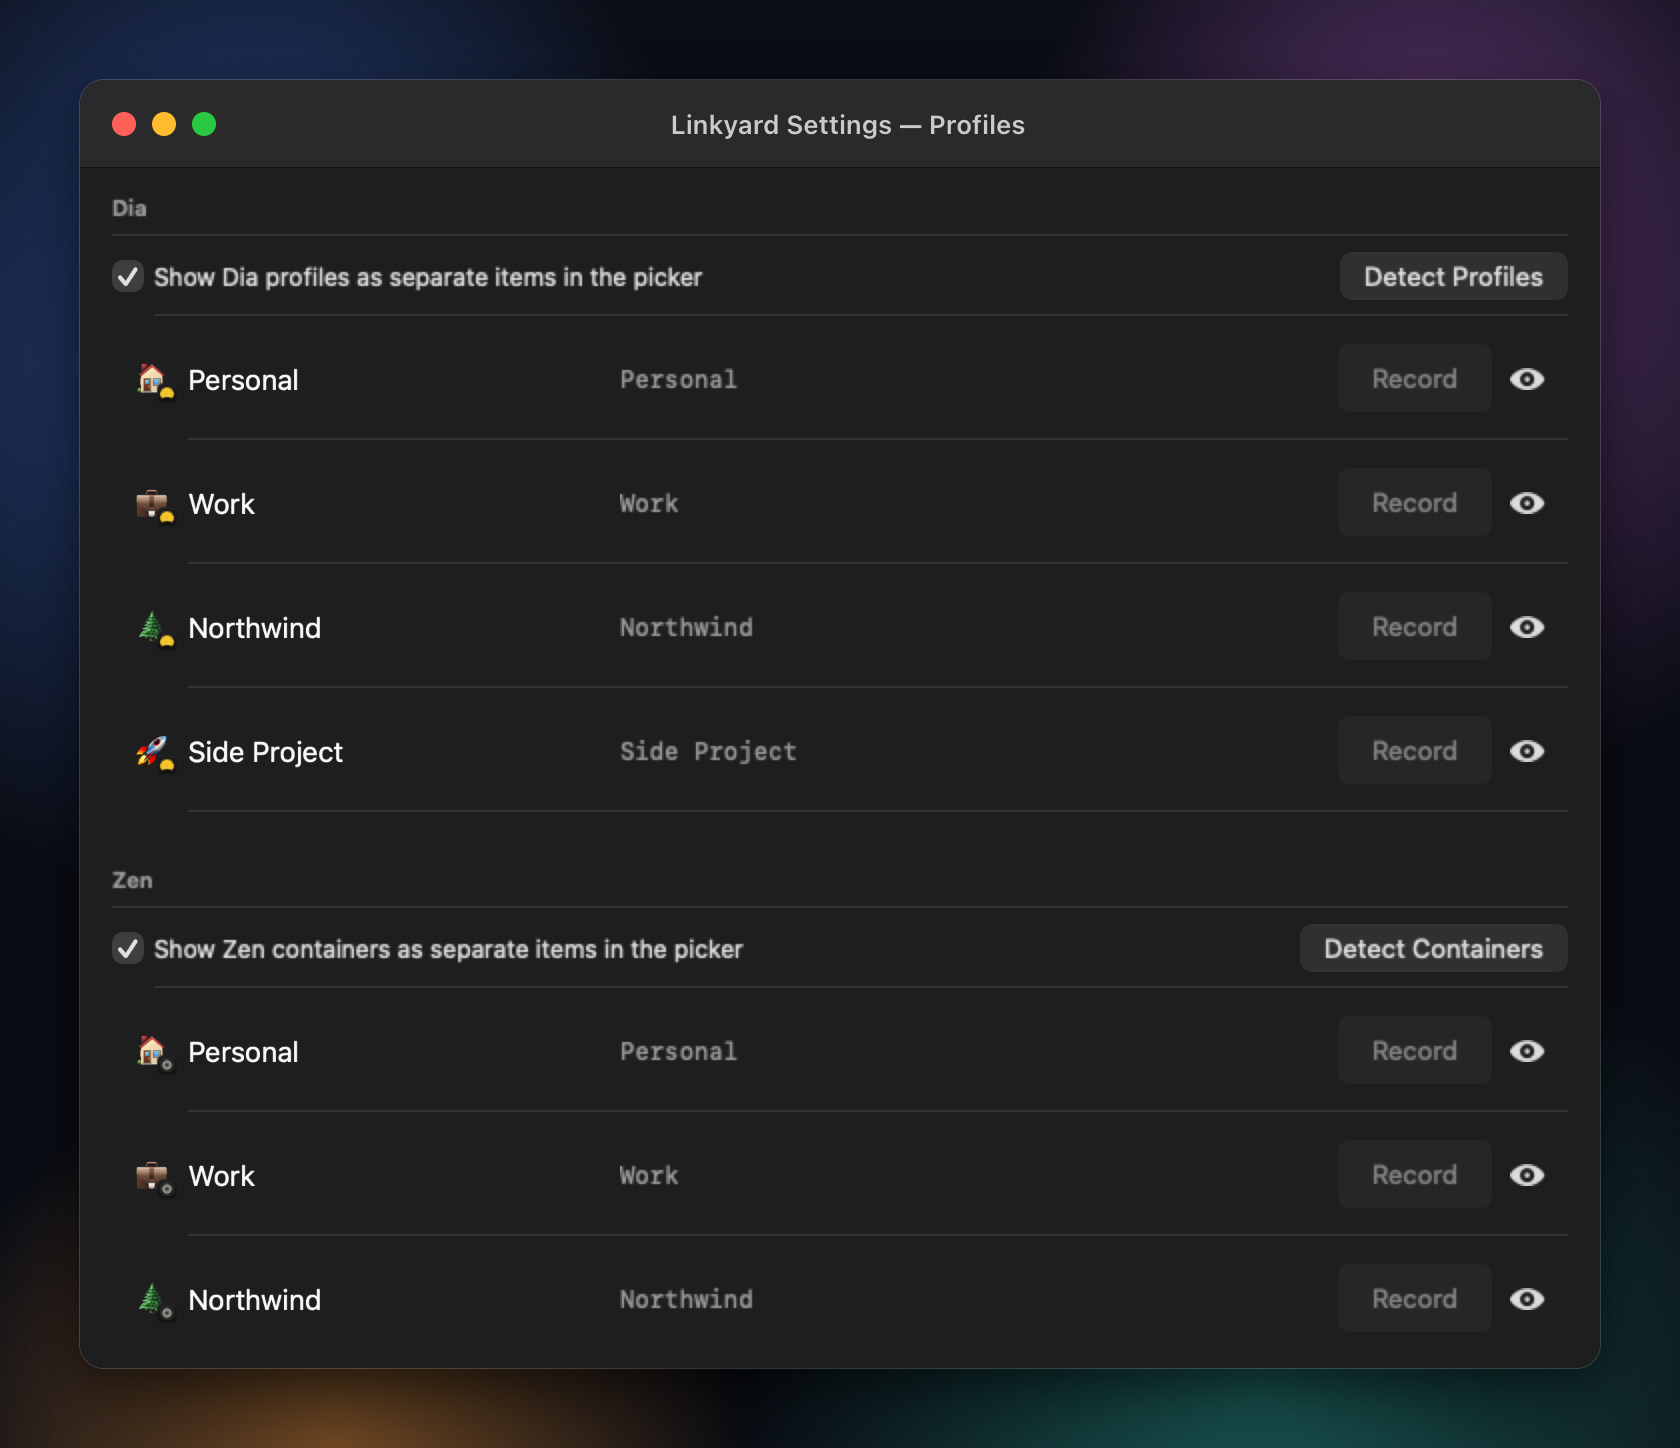
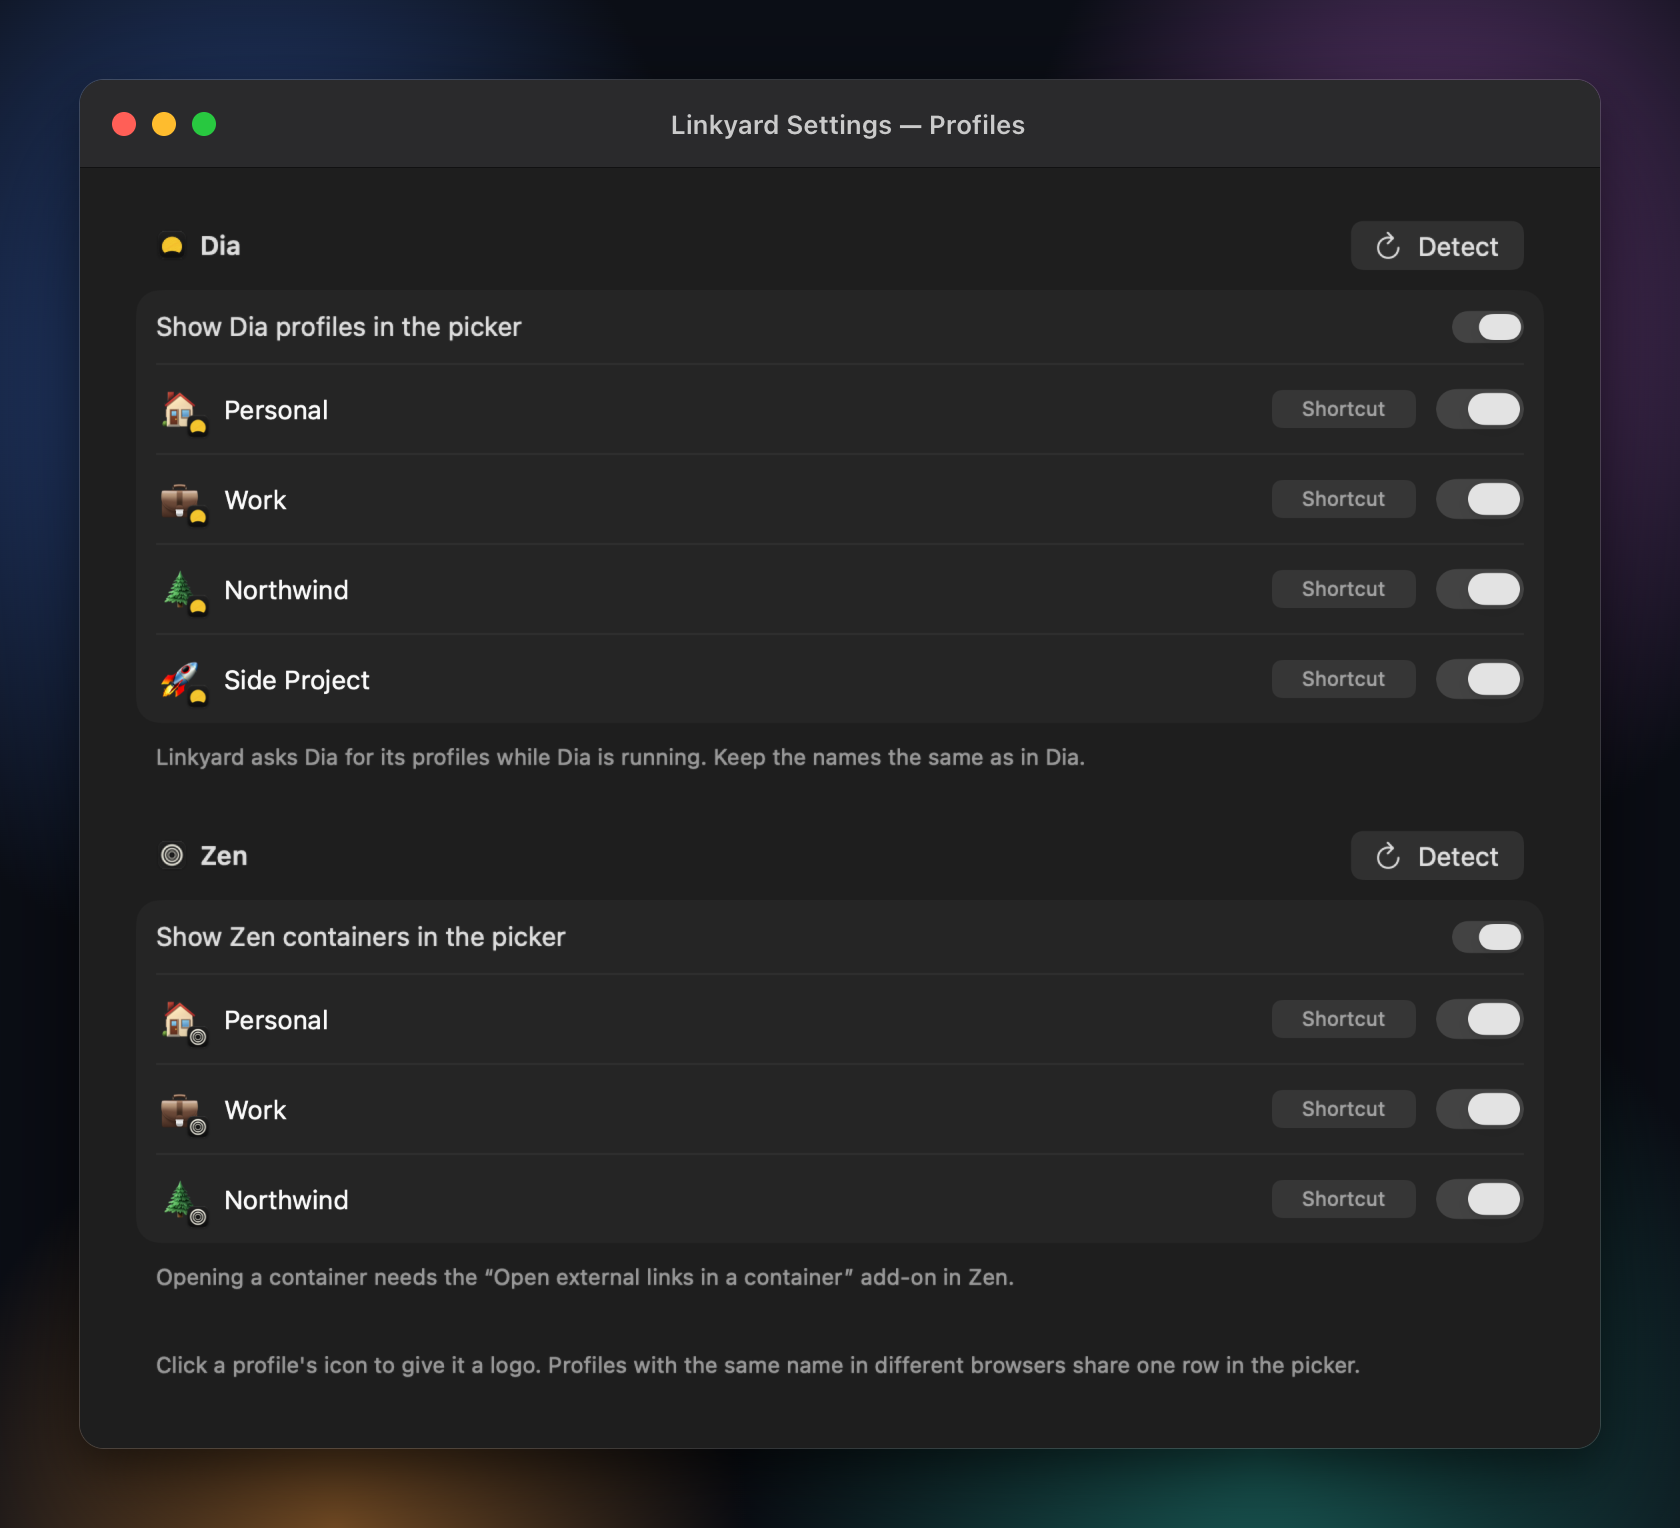
docs: 1.1.0 changelog, README and Settings screenshots

diff --git a/scripts/readme-art/harness.swift b/scripts/readme-art/harness.swift
@@ -73,6 +73,6 @@ enum DemoHarness {
         app.appearance = NSAppearance(named: .darkAqua)
         render(PromptView(urls: [URL(string: "https://github.com/acme/website/pull/42")!]), size: nil, to: "\(out)/picker.png")
         render(ProfilesTab().padding(.top, 12).background(Color(nsColor: .windowBackgroundColor)), size: CGSize(width: 760, height: 1240), to: "\(out)/settings-profiles.png")
-        render(RulesTab().padding(.top, 12).background(Color(nsColor: .windowBackgroundColor)), size: CGSize(width: 760, height: 400), to: "\(out)/settings-rules.png")
+        render(RulesTab().padding(.top, 12).background(Color(nsColor: .windowBackgroundColor)), size: CGSize(width: 760, height: 350), to: "\(out)/settings-rules.png")
     }
 }

diff --git a/scripts/readme-art/compose.py b/scripts/readme-art/compose.py
@@ -66,5 +66,5 @@ shoot("linkyard-hero", f"""
     box-shadow:0 0 0 .5px rgba(255,255,255,.22),0 40px 90px rgba(0,0,0,.6),0 10px 24px rgba(0,0,0,.4)">
 </div>""", 1200, 640)
 
-shoot("screenshots/settings-profiles", f"""<div style="padding:40px;{WALLPAPER}">{window("Linkyard Settings — Profiles", renders / "settings-profiles.png", 760, 440, 600)}</div>""", 840, 724)
-shoot("screenshots/settings-rules", f"""<div style="padding:40px;{WALLPAPER}">{window("Linkyard Settings — Rules", renders / "settings-rules.png", 760)}</div>""", 840, 524)
+shoot("screenshots/settings-profiles", f"""<div style="padding:40px;{WALLPAPER}">{window("Linkyard Settings — Profiles", renders / "settings-profiles.png", 760, 388, 640)}</div>""", 840, 764)
+shoot("screenshots/settings-rules", f"""<div style="padding:40px;{WALLPAPER}">{window("Linkyard Settings — Rules", renders / "settings-rules.png", 760)}</div>""", 840, 474)

diff --git a/ARCHITECTURE.md b/ARCHITECTURE.md
@@ -5,7 +5,7 @@
 1. **macOS hands the link to Linkyard** (it's the default browser): `AppDelegate.application(_:open:)` in `Browserino/BrowserinoApp.swift`. `linkyard://open?url=<base64>` links are unwrapped first.
 2. **Rules** (`Rule`, `ruleMatches`) are checked in order unless ⌘ is held. A rule matches the URL by regex, optionally the app the link came from (the last active app, tracked from workspace notifications), and optionally that app's window title. The title is read through Accessibility, lazily, only when a rule checks it (`SourceRuleContext`).
 3. **A matching rule opens the link directly** through `BrowserUtil.openURL`. Otherwise the picker opens.
-4. **The picker** (`BrowserinoWindow`, `PromptView`) shows one row per identity and one column per browser. Rows come from profiles grouped by display name (`pickerGroups` / `pickerGroupOrder` can override); columns follow the browser order from Settings. The window sizes itself to the view and opens at the cursor or the screen center (`prompt_centerOnScreen`).
+4. **The picker** (`BrowserinoWindow`, `PromptView`) shows one row per identity and one column per browser. Rows come from profiles grouped by display name (`pickerGroups` / `pickerGroupOrder` can override); columns follow the browser order from Settings. The window sizes itself to the view and opens at the cursor or the screen center (`prompt_centerOnScreen`). Its view is built at launch and reused for every link (`openID` resets the selection), and it closes before the chosen browser is opened. The entrance animation (`PickerAnimation`, `prompt_animation`) is none by default; the others animate the window itself in `BrowserinoWindow.orderFront(animation:)` so the system shadow moves with it, and Glow adds a SwiftUI overlay. Pop scales the whole window through AppKit's private `_setTransformForAnimation:anchorPoint:` (the method Arc and Dia use); it's looked up at runtime and checked against its type encoding, and without it Pop falls back to the system's document-window animation.
 
 ## Opening a link in a profile
 
@@ -15,15 +15,17 @@
 |---|---|---|
 | `chromium` | Chrome | `--profile-directory=<dir>` on a new app instance |
 | `arc` | Arc | AppleScript: focus the space by ID, make a tab |
-| `dia` | Dia | AppleScript: focus the profile by name, make a tab (Dia refuses the command-line flag) |
+| `dia` | Dia | Apple Events built by hand (`AppleEvents`): make a tab in the profile found by name, which also switches to it (Dia refuses the command-line flag) |
 | `zenContainers` | Zen | `ext+container:name=…&url=…`, handled by the "Open external links in a container" add-on; Zen's `force-container-workspace` pref moves the tab to its workspace |
 
 Any other browser opens the link with `NSWorkspace`, optionally with its private-window argument.
 
 ## Profiles
 
-`ChromiumProfileUtil` (`Models/ChromeProfile.swift`) detects each source's profiles: Chrome from `Local State`, Arc spaces from `StorableSidebar.json` (cached by modification date), Dia by asking Dia over AppleScript when it's running (falling back to `Local State`), and Zen containers from the default Zen profile's `containers.json`. Detected profiles are merged with the stored ones so names, visibility and logos survive.
+`ChromiumProfileUtil` (`Models/ChromeProfile.swift`) detects each source's profiles: Chrome from `Local State`, Arc spaces from `StorableSidebar.json` (cached by modification date), Dia by asking Dia over Apple Events when it's running (falling back to `Local State`), and Zen containers from the default Zen profile's `containers.json`. Detected profiles are merged with the stored ones so names, visibility and logos survive.
 
 ## Settings
 
-Everything lives in `UserDefaults` through `@AppStorage`; arrays and dictionaries are stored as JSON strings (`Extensions/Array+RawRepresentable.swift`). Profile logos are copied as 256px PNGs to `~/Library/Application Support/Linkyard/ProfileIcons` and cached in memory (`ProfileImageCache`). On first launch Linkyard copies an existing Browserino setup from the `xyz.alexstrnik.Browserino` defaults domain.
+The Settings window (`PreferencesView`) is a sidebar of panes (`SettingsPane`) with grouped forms. Search covers both the settings and what the user set up (`SettingsSearch`); opening a result switches pane and scrolls to the row marked with the same `settingsItem` ID.
+
+Everything lives in `UserDefaults` through `@AppStorage`; arrays and dictionaries are stored as JSON strings (`Extensions/Array+RawRepresentable.swift`). Profile logos are copied as 256px PNGs to `~/Library/Application Support/Linkyard/ProfileIcons` and cached in memory (`ProfileImageCache`). Browser icons in the picker are rendered once per size, screen scale and appearance (`AppIconCache`), since Icon Services renders them over XPC on every draw. On first launch Linkyard copies an existing Browserino setup from the `xyz.alexstrnik.Browserino` defaults domain.

diff --git a/README.md b/README.md
@@ -37,15 +37,16 @@ Linkyard is a tiny link router for macOS. Make it your default browser, and ever
 - 🚦 **Rules**: match a link by URL pattern, by the app it was clicked in, or by that app's window title (handy for telling Slack workspaces apart), and send it to a browser and profile without asking.
 - 📱 **Apps**: open links for certain sites straight in their Mac app.
 - ⌨ **Keyboard first**: ↑↓ picks the identity, ←→ the browser, ↵ opens, ⇧↵ opens a private window, ⌥⌘C copies the link, Esc closes. Hold ⌘ while clicking a link to skip your rules.
-- 🎯 **Opens where you look**: at the cursor or in the center of the screen.
+- 🎯 **Opens where you look**: at the cursor or in the center of the screen, instantly or with a Fade, Rise, Pop or Dia-style Glow you can preview.
+- 🔎 **Searchable Settings**: find any setting, browser, profile, rule or app from the sidebar search.
 - 🔁 **Coming from Browserino?** Linkyard imports your Browserino settings the first time it starts.
 
 ## 📸 Screenshots
 
 <table>
   <tr>
-    <td width="50%" align="center"><img src="docs/assets/screenshots/settings-profiles.png" alt="Settings, Profiles tab: Dia profiles and Zen containers with their logos"><br><sub>Profiles, each with its own logo</sub></td>
-    <td width="50%" align="center"><img src="docs/assets/screenshots/settings-rules.png" alt="Settings, Rules tab: links from Slack, Teams and Telegram sent to Dia, and GitHub links sent to Zen"><br><sub>Rules by link, source app or Slack workspace</sub></td>
+    <td width="50%" align="center"><img src="docs/assets/screenshots/settings-profiles.png" alt="Settings, Profiles: Dia profiles and Zen containers with their logos"><br><sub>Profiles, each with its own logo</sub></td>
+    <td width="50%" align="center"><img src="docs/assets/screenshots/settings-rules.png" alt="Settings, Rules: links from Slack, Teams and Telegram sent to Dia, and GitHub links sent to Zen"><br><sub>Rules by link, source app or Slack workspace</sub></td>
   </tr>
 </table>
 
@@ -67,7 +68,7 @@ Open Settings → **Profiles**. Linkyard detects your Chrome profiles, Arc space
 <details>
 <summary><b>Dia</b></summary>
 
-Dia doesn't accept the usual command-line flag for picking a profile, so Linkyard asks Dia through AppleScript to open the link in the profile with that name. Keep Dia's profile names the same as the ones in Linkyard.
+Dia doesn't accept the usual command-line flag for picking a profile, so Linkyard asks Dia through Apple Events to open the link in the profile with that name. Keep Dia's profile names the same as the ones in Linkyard.
 </details>
 
 <details>

diff --git a/CHANGELOG.md b/CHANGELOG.md
@@ -2,6 +2,26 @@
 
 Linkyard is a modified version of [Browserino](https://github.com/AlexStrNik/Browserino) by Aleksandr Strizhnev, released under the same GPL-3.0 license. This file lists what Linkyard changed.
 
+## 1.1.0
+
+### Added
+- A choice of picker animations in Settings → Picker: none (the default), Fade, Rise, Pop and Glow, with a Preview button. Pop scales the whole window the way Arc and Dia do, through a private AppKit method, and falls back to the system's window animation if that method is gone. Reduce Motion turns every animation into a fade.
+- Search in Settings, covering every setting plus your browsers, profiles, rules and apps.
+- Rules can be reordered by dragging one onto another; the first rule that matches still wins.
+
+### Changed
+- Settings is redesigned: a sidebar of panes with grouped sections and help text, a Picker pane for how the picker opens, and the browser search folders moved into Browsers. Resetting all settings now asks first, exported settings are saved as `linkyard-settings.json`, and the menu bar item reads Settings… instead of Preferences.
+- The picker opens faster: it no longer fades in unless you choose an animation, its view is built once at launch and reused, and browser icons are rendered once instead of on every draw.
+- Links open in Dia faster, and opening them no longer loads the AppleScript runtime (about 13 MB of memory): Linkyard sends Dia fewer Apple Events, built directly instead of through AppleScript. Arc still uses AppleScript.
+- Closing Settings releases its views and memory.
+- The picker closes as soon as you choose a browser instead of staying up until the browser responds.
+
+### Fixed
+- After "Reset all settings", Linkyard no longer copies your old Browserino settings back in on the next launch.
+- Browser icons in the picker update after a browser updates, instead of keeping the old icon until Linkyard restarts.
+- Pressing Esc while recording a shortcut cancels instead of saving Esc as the shortcut, and Delete removes the shortcut.
+- Linkyard no longer crashes when a link arrives while the pointer is outside every screen, as can happen while displays are being connected or disconnected.
+
 ## 1.0.0
 
 First Linkyard release, based on Browserino 1.1.16 plus the open [Chrome profile pull request #48](https://github.com/AlexStrNik/Browserino/pull/48) by Moti Levy.

diff --git a/AGENTS.md b/AGENTS.md
@@ -14,9 +14,9 @@ The Xcode project, target, scheme and Swift module paths keep Browserino's names
 
 ## Rules
 
-- **Credit and license.** Linkyard is GPL-3.0 like Browserino. Every change from Browserino goes in [CHANGELOG.md](CHANGELOG.md) (GPL section 5a), and Aleksandr Strizhnev stays credited in the README and the About tab.
+- **Credit and license.** Linkyard is GPL-3.0 like Browserino. Every change from Browserino goes in [CHANGELOG.md](CHANGELOG.md) (GPL section 5a), and Aleksandr Strizhnev stays credited in the README and the About pane.
 - **No real names.** Screenshots, sample text and fixtures use generic identities (Personal, Work, Northwind, Side Project, Acme). Regenerate README art with `scripts/readme-art/render-ui.sh`, which renders the real views from demo data in a throwaway home folder.
 - **Profiles are keyed by `selectionID`** (the Arc space ID, otherwise the profile directory or name). Picker items, shortcuts and Settings rows use `"<bundle id>::<selectionID>"`; changing that format breaks saved shortcuts.
-- **Adding a browser.** Add a `ChromiumProfileSource` with its `ProfileSourceKind`, its `<name>Profiles` / `<name>ProfilesEnabled` storage keys in the picker, rule form and Profiles tab, and how it opens a link in `BrowserUtil.openURL`.
+- **Adding a browser.** Add a `ChromiumProfileSource` with its `ProfileSourceKind`, its `<name>Profiles` / `<name>ProfilesEnabled` storage keys in the picker, rule form, Profiles and Rules panes and Settings search, and how it opens a link in `BrowserUtil.openURL`.
 - **Keep the link path fast.** Work done between a click and the picker (rule matching, profile refresh) runs on the main thread; cache file reads and only make Accessibility calls when a rule needs them.
 - **AI disclosure.** Linkyard's additions are written with AI; keep the README's disclosure accurate when that changes.
